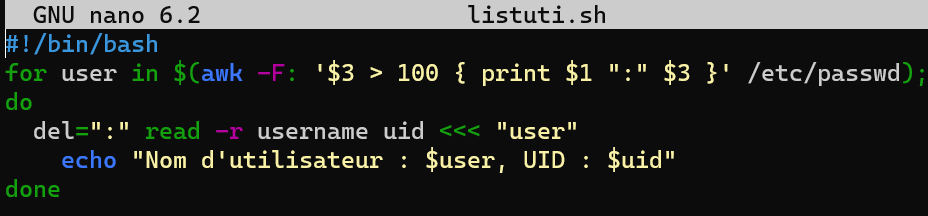
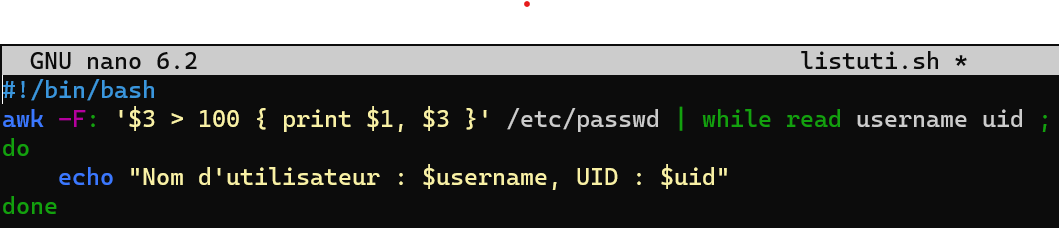
Update TP3 (presque fin)

diff --git a/TP3/TP3.md b/TP3/TP3.md
@@ -36,7 +36,10 @@ Résultat :
 ![Résultat listedir.sh](./asset/contenu%20rep/resultat.png)  
 
 
-### Lister les utilisateurs
+*A partir de l'exercie suivant le tp à été réalisé sur mon pc perso. J'utilise Ubuntu.*  
+
+
+### Lister les utilisateurs  
 
 ``` bash
 #!/bin/bash
@@ -51,6 +54,56 @@ Script :
 Résultat :  
 ![Résultat avec cut](./asset/Lister%20utilisateurs/resultat.png)  
 Script avec awk :  
-![Script avec cut](./asset/Lister%20utilisateurs/nanoAWK.png)  
+![Script avec awk](./asset/Lister%20utilisateurs/nanoAWK.png)  
 Résultat avec awk:  
-![Résultat avec cut](./asset/Lister%20utilisateurs/resultatAWK.png)  
+![Résultat avec awk](./asset/Lister%20utilisateurs/resultatAWK.png)  
+
+
+###  Mon utilisateur existe t’il  
+
+Script :  
+![Script utiexiste.sh](./asset/utilisateur%20existe/nano.png)  
+![Script suite utiexiste.sh](./asset/utilisateur%20existe/nano_fin.png)  
+Résultat :  
+![Resultat utiexiste.sh](./asset/utilisateur%20existe/resultat.png)  ''
+
+
+### Creation utilisateur  
+
+Script :  
+![Script creauti.sh](./asset/creation%20utilisateur/nano_debut.png)  
+![Script suite creauti.sh](./asset/creation%20utilisateur/nano_fin.png)  
+Résultat :  
+![Resultat creauti.sh](./asset/creation%20utilisateur/resultat.png)  
+*J'ai un problème avec ce script dans tout les cas le script s'arrète parce que lors du teste de répertoire, le résultat est toujours le même : le répertoire existe déjà.*  
+*Je ne comprends pas pour le moment.*  
+
+
+###  Lecture au clavier
+
+1. Essayer les commandes suivantes :  
+``` bash
+echo -n "Entrer votre nom: "
+read nom
+echo "Votre nom est $nom"
+```  
+![Résultat du test](./asset/lecture%20clavier/resultat_essaie_commandes.png)  
+2. Teste file et more :  
+![Testes](./asset/lecture%20clavier/file_more.png)  
+- **Comment quitter more ?** Pour quitter more, on appuie sur "q".  
+- **Comment avancer d’une ligne ?** Pour avancer d'une ligne, on appuie sur la touche "entrer" ou sur la flèche vers le bas.  
+- **Comment avancer d’une page ?** Pour avancer d'une page, on appuie sur la touche "espace".  
+- **Comment remonter d’une page ?** Pour remonter d'une page, on appuie sur la touche "b".  
+- **Comment chercher une chaîne de caractères ? Passer à l’occurence suivante ?** Pour rechercher une chaîne de caractères, on appuie sur "/". Cela permet de saisir la chaîne que l'on souhaite rechercher, puis on appuie sur "Entrée". Pour passer à l'occurrence suivante, on appuie sur "n".  
+3. Script :  
+![Script clavier.sh](./asset/lecture%20clavier/script.png)  
+Résultat :  
+![Resultat clavier.sh](./asset/lecture%20clavier/resultat_finale.png)  
+
+
+### Appréciation
+
+Script :  
+![Script appreciation.sh](./asset/appreciation/script.png)  
+Résultat :  
+![Resultat appreciation.sh](./asset/appreciation/resultat.png)  
